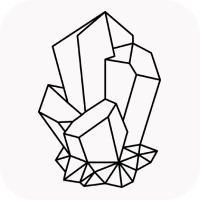
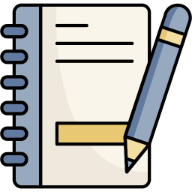
coucou favico

diff --git a/quartz/plugins/emitters/extraHead.ts b/quartz/plugins/emitters/extraHead.ts
@@ -1,0 +1,21 @@
+import { QuartzEmitterPlugin } from "../types"
+
+export const ExtraHead: QuartzEmitterPlugin = () => ({
+  name: "ExtraHead",
+  async *emit() {},
+
+  async *emitHead() {
+    yield `
+<!-- Favicon multi-taille généré -->
+<link rel="icon" type="image/png" sizes="16x16" href="/favicon-16x16.png">
+<link rel="icon" type="image/png" sizes="32x32" href="/favicon-32x32.png">
+<link rel="icon" type="image/png" sizes="48x48" href="/favicon-48x48.png">
+<link rel="icon" type="image/png" sizes="96x96" href="/favicon-96x96.png">
+<link rel="icon" type="image/png" sizes="192x192" href="/favicon-192x192.png">
+<link rel="icon" type="image/png" sizes="512x512" href="/favicon-512x512.png">
+<link rel="shortcut icon" href="/favicon.ico">
+`
+  },
+
+  async *partialEmit() {},
+})

diff --git a/quartz.config.ts b/quartz.config.ts
@@ -1,6 +1,6 @@
 import { QuartzConfig } from "./quartz/cfg"
 import * as Plugin from "./quartz/plugins"
-
+import { ExtraHead } from "./quartz/plugins/emitters/extraHead"
 /**
  * Quartz 4 Configuration
  *
@@ -85,6 +85,7 @@ const config: QuartzConfig = {
       Plugin.Assets(),
       Plugin.Static(),
       Plugin.Favicon(),
+      ExtraHead(),
      Plugin.NotFoundPage(),
       // Comment out CustomOgImages to speed up build time
       // Plugin.CustomOgImages(),
@@ -93,7 +94,3 @@ const config: QuartzConfig = {
 }
 
 export default config
-
-
-
-

diff --git a/content/Vie privée.md b/content/Vie privée.md
@@ -1,11 +1,12 @@
-
 ---
+
 title: Vie privée
 publish: true
 tags: [privacy meta]
-created: 2025-06-39
+created: 2025-06-29
 
 ---
+
 Ce jardin numérique est propulés par Quartz. 
 
 Or…
@@ -15,12 +16,11 @@ Quartz **n’utilise pas de cookies**.
 Cependant, il utilise **`localStorage`** et **`sessionStorage`** dans certains scripts JavaScript pour stocker des préférences localement dans le navigateur, notamment dans :
 
 - `checkbox.inline.ts` : pour mémoriser l'état de cases à cocher.
-    
+
 - `darkmode.inline.ts` : pour mémoriser la préférence de thème (mode clair/sombre).
-    
+
 - `explorer.inline.ts` : pour l'état du panneau de navigation.
-    
+
 - `graph.inline.ts` : pour des interactions graphiques.
-    
 
 Cela signifie que Quartz **n'installe pas de traceurs tiers ni de cookies traditionnels** (soumis au RGPD), mais utilise le stockage local pour améliorer l'expérience utilisateur.